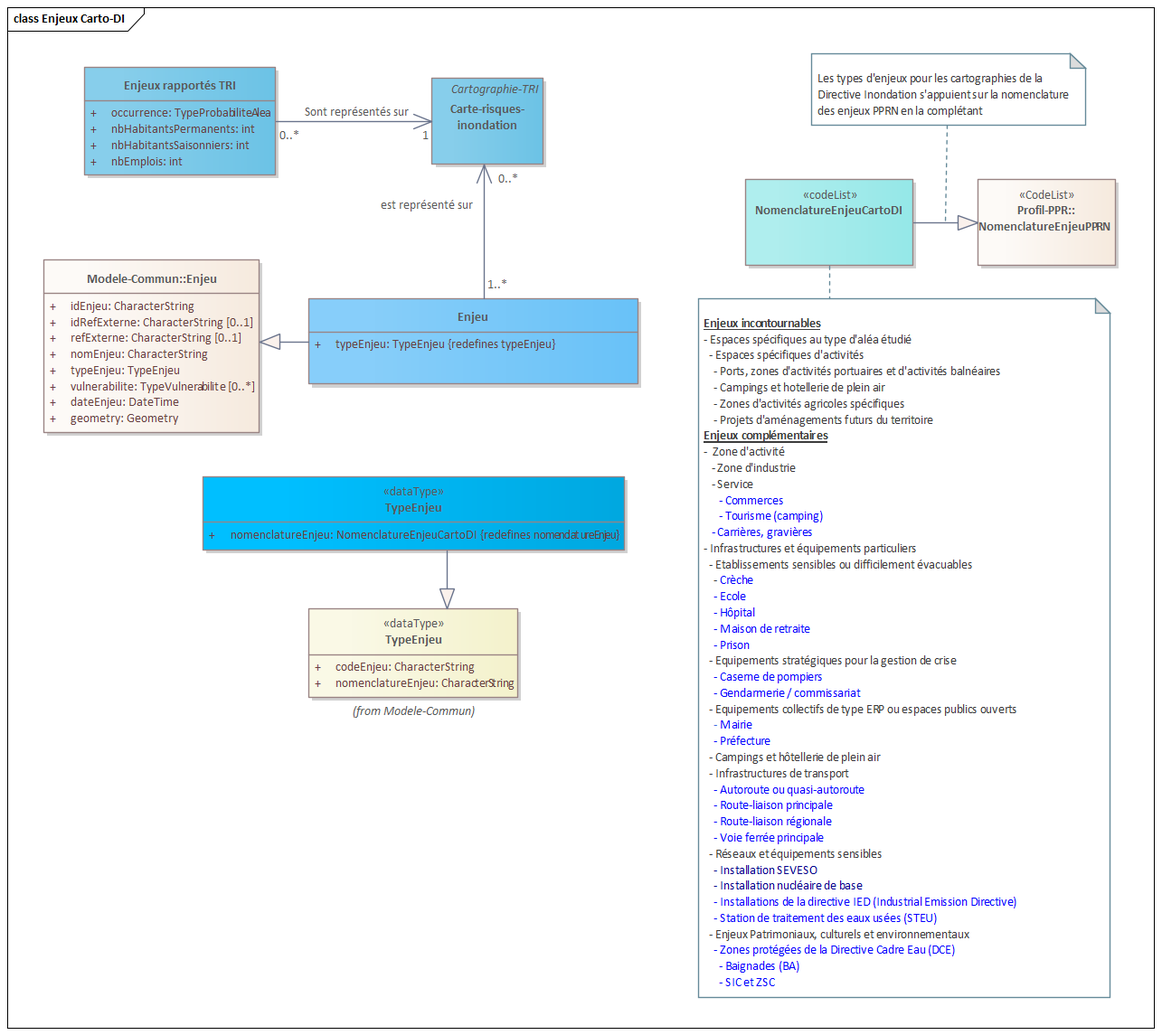
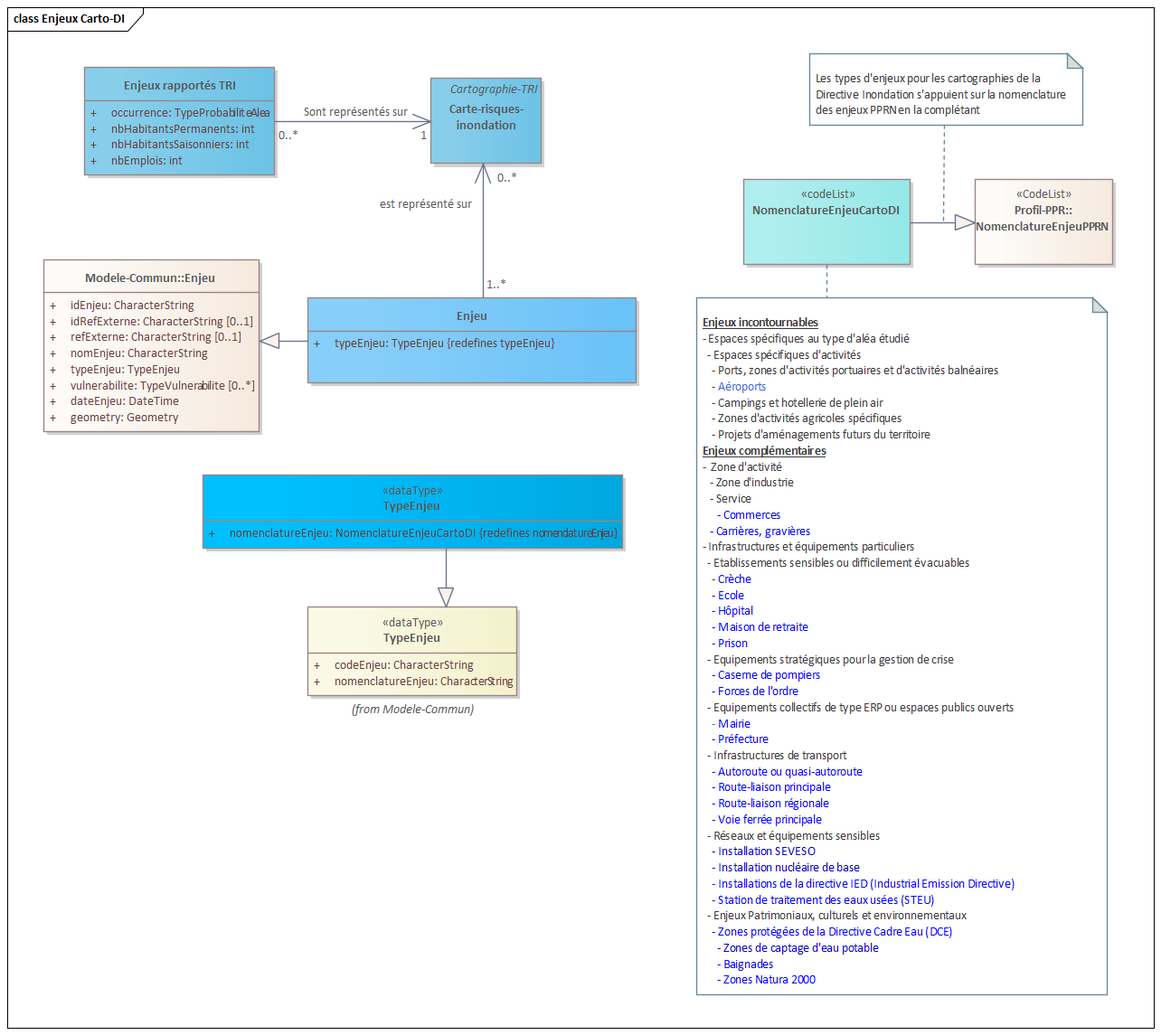
Documentation Enjeux carto DI

diff --git a/standard/Document.md b/standard/Document.md
@@ -946,74 +946,51 @@ Le type de données TypeEnjeu défini dans le modèle commun permet de qualifier
 
 ### Nomenclature Enjeux Carto DI
 
-La nomenclature des enjeux pour les cartographies de la directive inondation s'appuie de façon cohérente sur la nomenclatrue des enjeux des plans de préventions des risques naturels (PPRN) dont certaines catégories sont affinées pour le besoin de rapportage. Le tableau qui suit expose les catégories de la nomenclature des PPRN utilisées et, le cas échéant ajoutées pour les cartographies de la directive inondation.
+La nomenclature des enjeux pour les cartographies de la directive inondation s'appuie de façon cohérente sur la nomenclature des enjeux des plans de préventions des risques naturels (PPRN) dont certaines catégories sont affinées pour le besoin de rapportage. Le tableau qui suit expose les catégories de la nomenclature des PPRN utilisées et étendues (catégories en **gras**) pour les cartographies de la directive inondation. La colonne `Chemin` permet de positionner la catégorie dans la hiérarchie globale de la nomenclature.
 
 #### Catégories des Enjeux incontournables
 
-### Enjeux incontournables
+| Chemin | Libellé | Définition |
+| - | - | - |
+| /espaceSpecifique/activite/portuaireBalneaire | Ports, zones d’activités portuaires et d’activités balnéaires | Enjeu incontournable dans le cadre des PPRLs : les ports, zones d’activités portuaires et d’activités balnéaires. Cette catégorie issue de la nomenclature des enjeux PPRN permet de reprendre les enjeux "Activité économique" de type "Ports et aéroports" de l'ancien standard COVADIS DI, lorsqu'il s'agit de ports. |
+| **/espaceSpecifique/activite/aeroport** | Aéroport | Aéroports ou aérodromes. Cette catégorie permet de reprendre les enjeux "Activité économique" de type "Ports et aéroports" de l'ancien standard COVADIS DI, lorsqu'il s'agit d'aéroports ou d'aérodromes. |
+| /espaceSpecifique/activite/campings | Campings et hôtellerie de plein air | Enjeu incontournable dans le cadre des PPRLs : campings et hôtellerie de plein air. Cette catégorie issue de la nomenclature des enjeux PPRN permet de reprendre les enjeux "Activité économique" de type "Tourisme (camping)" de l'ancien standard COVADIS DI. |
+| /espaceSpecifique/activite/activiteAgricoles | Zones d'activités agricoles spécifiques | Activités agricoles identifiées comme enjeux incontournables. Par exemple dans le cadre des PPRLs : les élevages sur prés salés et les marais salants. Cette catégorie issue de la nomenclature des enjeux PPRN permet de reprendre les enjeux "Activité économique" de type "Agriculture" de l'ancien standard COVADIS DI. |
+| /projetCollectivite | Projets d'aménagement futurs du territoire | Enjeux incontournables - Les projets d’aménagement doivent être recensés et discutés avec les collectivités, afin de vérifier leur cohérence vis-à-vis de l’exposition possible aux risques. Cette catégorie issue de la nomenclature des enjeux PPRN permet de reprendre les enjeux "Activité économique" de type "Activités futures" de l'ancien standard COVADIS DI. |
 
-| Code | Chemin | Libellé | Libellé Parent | Définition |
-|-|-|-|-|-|
-| 010000 | /zoneUrba | Zones urbanisées | -  | La définition de ces zones se fait par référence à la [circulaire 96-32 du ministère de l'équipement](https://dtrf.cerema.fr/pdf/pj/Dtrf/0000/Dtrf-0000327/TO327.pdf) qui précise que le caractère urbanisé ou non d’un espace doit s’apprécier en fonction de la réalité physique constatée et non en fonction d’un zonage opéré par un plan local d’urbanisme, ce qui conduit à exclure les zones dites urbanisables. Elles correpondent aux "espaces urbanisés" mentionnés dans le [Guide PPRN:2016](https://www.actu-environnement.com/media/pdf/guide-pprn.pdf)|
-| 010100 | /zoneUrba/centreUrbain | Centres urbains | Zones urbanisées | Au sein des zones urbanisées, le centre urbain est une entité particulière qui peut donner lieu à un zonage et une réglementation spécifiques. La définition des centres urbains est faite par référence à la [Circulaire du 24 avril 1996 relative aux dispositions applicables au bâti et ouvrages existants en zones inondables](https://www.legifrance.gouv.fr/jorf/id/JORFTEXT000000546346) qui indique qu'ils se caractérisent par leur histoire, par une occupation du sol de fait importante, une continuité bâtie et la mixité des usages entre logements, commerces et services. |
-| 010200 | /zoneUrba/horsCentreUrbain | Zones urbanisées hors centres urbains | Zones urbanisées | Cette sous-catégorie de zones urbanisées permet d'identifier en tant que telles les zones urbanisées **en dehors des centres urbains** au sens de l'[article R562-11-6 du code de l'environnement](https://www.legifrance.gouv.fr/codes/article_lc/LEGIARTI000038733757) |
-| 020000 | /zonesNonUrba | Zones non urbanisées | - | Zones se définissant par opposition aux Zones urbanisés et correspondant aux **zones non urbanisées** évoquées dans l'[article R562-11-6 du code de l'environnement](https://www.legifrance.gouv.fr/codes/article_lc/LEGIARTI000038733757) | 
-| 030000 | /espaceSpecifique | Espaces spécifiques au type d’aléa étudié | - | Espaces naturels, agricoles, forestiers ou autres pouvant jouer un rôle dans la dynamique des phénomènes ou support d'activités spécifiques et particulièrement vulnérables aux aléas étudiés. Les catégories suivantes permettent d'en identifier certains |
-| 030100 | /espaceSpecifique/activite | Espaces spécifiques d'activités | Espaces spécifiques au type d’aléa étudié | Espace d'activités spécifiques particulièrement vulnérables aux aléas étudiés. Les catégories suivantes permettent d'en identifier certains |
-| **030101** | **/espaceSpecifique/activite/portuaireBalneaire** | Ports, zones d’activités portuaires et d’activités balnéaires | Espaces spécifiques d'activités | Enjeu incontournable dans le cadre des PPRLs : les ports, zones d’activités portuaires et d’activités balnéaires |
-| **030102** | **/espaceSpecifique/activite/campings** | Campings et hôtellerie de plein air | Espaces spécifiques d'activités | Enjeu incontournable dans le cadre des PPRLs : campings et hôtellerie de plein air |
-| **030103** | **/espaceSpecifique/activite/activiteAgricoles** | Zones d'activités agricoles spécifiques | Espaces spécifiques d'activités | Activités agricoles identifiées comme enjeux incontournables. Par exemple dans le cadre des PPRLs : les élevages sur prés salés et les marais salants |
-| 030200 | /espaceSpecifique/limitationAlea | Espaces participants à la limitation des aléas | Espaces spécifiques au type d’aléa étudié | Espaces naturels, agricoles ou forestiers pouvant jouer un rôle dans la dynamique des phénomènes. |
-| 030201 | /espaceSpecifique/limitationAlea/expansionCrues | Zones d’expansion des crues | Espaces participants à la limitation des aléas | Zones d’expansion des crues pour les inondations |
-| 030202 | /espaceSpecifique/limitationAlea/atterrisement | Zones d’atterrissement | Espaces participants à la limitation des aléas | Zones d'atterrissement pour les crues torrentielles. |
-| 030203 | /espaceSpecifique/limitationAlea/interfaceHabitatForet | Zones d’interfaces habitat-forêt | Espaces participants à la limitation des aléas | Zones d’interfaces habitat-forêt pour les incendies de forêt ou le maintien d’une forêt pour retenir un manteau neigeux ou des chutes de blocs. |
-| 030204 | /espaceSpecifique/limitationAlea/maintienForet | Zones de maintien d’une forêt | Espaces participants à la limitation des aléas | Zone de maintien d’une forêt pour retenir un manteau neigeux ou des chutes de blocs. |
-| 040000 | **/projetCollectivite** | **Projets d'aménagement futurs du territoire** | - | Enjeux incontournables - Les projets d’aménagement doivent être recensés et discutés avec les collectivités, afin de vérifier leur cohérence vis-à-vis de l’exposition possible aux risques. |
+### Catégories des Enjeux complémentaires
 
-### Enjeux complémentaires
-
-| Code | Chemin | Libellé | Libellé Parent | Définition |
-|-|-|-|-|-|
-| 050000 | /habitat | Zone d'habitat | -  | Zone de typologie de bâti homogène destinée à l'habitat |
-| 050100 | /habitat/individuel | Zone d'habitat individuel | Zone d'habitat | Zone de typologie de bâti homogène destinée à l'habitat individuel (pavillons) |
-| 050200 | /habitat/collectif | Zone d'habitat collectif |  Zone d'habitat | Zone de typologie de bâti homogène destinée à l'habitat collectif (immeubles d'habitations)  |
-| 060100 | /activite | Zone d'activité | - | Zone de typologie de bâti homogène destinée à l'activité professionnelle |
-| 060101 | **/activite/industrie** | **Zone d'industrie** | Zone d'activité | Zone de typologie de bâti homogène destinée à l'industrie |
-| 060102 | /activite/service | Service | Zone d'activité | Zone de typologie de bâti homogène destinée au service |
-| **(+)06010201** | **/activite/service/commerces** | Commerces | Service | Zone de typologie de bâti homogène destinée au Commerces |
-| **(+)06010202** | **/activite/service/tourisme** | Tourisme | Service | Zone de tourisme (campings ?) |
-| 060103 | /activite/artisanat | Artisanat | Zone d'activité | Zone de typologie de bâti homogène destinée à l'artisanat |
-| **(+)060104** | **/activite/carrières** | **Zone de carrières ou gravières** | Zone d'activité | Zone de carrières ou gravières |
-| 070000 | /equipementParticulier | Infrastructures et équipements particuliers | - | Eléments faisant l'objet d'une vulnérabilité propre et de prescription spécifique |
-| 070100 | /equipementParticulier/sensibleCrise | Etablissements sensibles ou difficilement évacuables | Infrastructures et équipements particuliers | Par exemple : crèches, écoles, hôpitaux, maisons de retraite, centres pénitentiaires. Cette catégorie peut être affinée à l'aide de la nomenclature COVADIS |
-| **(+)070101** | **/equipementParticulier/sensibleCrise/creche** | Crêche | Etablissements sensibles ou difficilement évacuables | Crêches |
-| **(+)070102** | **/equipementParticulier/sensibleCrise/ecole** | Ecole | Etablissements sensibles ou difficilement évacuables | Ecoles |
-| **(+)070103** | **/equipementParticulier/sensibleCrise/hopital** | Hopital | Etablissements sensibles ou difficilement évacuables | Hôpitaux |
-| **(+)070104** | **/equipementParticulier/sensibleCrise/ehpad** | Ehpad | Etablissements sensibles ou difficilement évacuables | Ehpad ou maisons séniors |
-| **(+)070105** | **/equipementParticulier/sensibleCrise/prison** | Prison | Etablissements sensibles ou difficilement évacuables | Prisons |
-| 070200 | /equipementParticulier/gestionCrise | Equipements stratégiques pour la gestion de crise | Infrastructures et équipements particuliers | Par exemple : PC de crises, centres de secours, ERP pouvant servir d'hébergement, centraux téléphoniques, centrales électriques, gendarmerie, police, services techniques...  Cette catégorie peut être affinée à l'aide de la nomenclature COVADIS |
-| **(+)070201** | /equipementParticulier/gestionCrise/pompiers | Caserne de pompiers | Equipements stratégiques pour la gestion de crise | Caserne de pompiers |
-| **(+)070202** | /equipementParticulier/gestionCrise/commissariatGendarmerie | Gendarmerie ou commissariat | Equipements stratégiques pour la gestion de crise | Gendarmerie ou commissariat |
-| 070300 | /equipementParticulier/collectifsPublicsOuverts | Equipements collectifs de type ERP ou espaces publics ouverts | Infrastructures et équipements particuliers | Equipements regroupant ponctuellement ou périodiquement en un point donné du territoire un nombre important de personnes. Cette catégorie peut être affinée à l'aide de la nomenclature COVADIS |
-| **(+)070301** | **/equipementParticulier/collectifsPublicsOuverts/marie** | Marie | Equipements collectifs de type ERP ou espaces publics ouverts | Maries |
-| **(+)070302** | **/equipementParticulier/collectifsPublicsOuverts/prefecture** | Préfecture | Equipements collectifs de type ERP ou espaces publics ouverts | Préfectures  |
-| **070400** | **/equipementParticulier/campings** | Campings et hôtellerie de plein air | Infrastructures et équipements particuliers | Campings et hôtellerie de plein air |
-| 070500 | /equipementParticulier/transports | Infrastructures de transport | Infrastructures et équipements particuliers | Infrastructures de transport pouvant assurer l'accès des secours ou l'évacuation des personnes. Cette catégorie peut être affinée à l'aide de la nomenclature COVADIS |
-| **(+)070501** | **/equipementParticulier/transports/autoroute** | Autoroute ou quasi autoroute | Infrastructures de transport | Autoroutes ou quasi autoroutes |
-| **(+)070502** | **/equipementParticulier/transports/routePrincipale** | Route liaison principale | Infrastructures de transport | Routes liaisons principales |
-| **(+)070503** | **/equipementParticulier/transports/routeRegionale** | Route liaison régionale | Infrastructures de transport | Routes liaisons régionales |
-| **(+)070504** | **/equipementParticulier/transports/voieFerreePrincipale** | Voie ferrée principale | Infrastructures de transport | Voies ferrées principales (dont LGV) |
-| 070600 | /equipementParticulier/reseauxSensibles | Réseaux et équipements sensibles | Infrastructures et équipements particuliers | Réseaux électriques et téléphoniques aériens, réseaux enterrés d’eau et de gaz, stations de traitement des eaux usées, installations d’alimentation en eau potable... |
-| **(+)070601** | **/equipementParticulier/reseauxSensibles/seveso** | Installation SEVESO | Infrastructures et équipements particuliers | Installation de type SEVESO |
-| **(+)070602** | **/equipementParticulier/reseauxSensibles/nucleaire** | Installation nucléaire de base | Infrastructures et équipements particuliers | Installations nucléaire de base |
-| **(+)070603** | **/equipementParticulier/reseauxSensibles/ied** | Installation de la directive IED | Infrastructures et équipements particuliers | Installations de la directive IED |
-| **(+)070604** | **/equipementParticulier/reseauxSensibles/steu** | Station de traitement des eaux usées | Infrastructures et équipements particuliers | Stations de traitement des eaux usées |
-| **080000** | **/patrimoineEnvironement** | Enjeux patrimoniaux, culturels et environnementaux | - | Par exemple des secteurs sauvegardés, des monuments historiques qui sont soumis à des réglementations particulières avec lesquelles il faudra veiller à définir des mesures cohérentes. |
-| **(+)080200** | **/patrimoineEnvironement/culturel** | Patrimoine culturel | Enjeux patrimoniaux, culturels et environnementaux | Eléments du patrimoine culturel. Typiquement : musées, bâtiments religieux, monuments, vestiges archéologiques, mégalithes, habitations troglodytiques, cimetières. |
-| **(+)080100** | **/patrimoineEnvironement/zpdce** | Zones protégées de la directive cadre eau | Enjeux patrimoniaux, culturels et environnementaux | Typiquement : Baignades (BA), oiseaux (BI) et habitat (HA). |
-| **(+)080101** | **/patrimoineEnvironement/zpdce/baignades** | Baignades |Zones protégées de la directive cadre eau | Baignades |
-| **(+)080102** | **/patrimoineEnvironement/zpdce/sic_zsc** | Sites d'importance communautaire (SIC) et zones spéciales de conservation (ZSC)  | Zones protégées de la directive cadre eau | Zones naturelles désignées par la Commission européenne dans le cadre du réseau Natura 2000. |
-
+| Chemin | Libellé | Définition |
+| - | - | - |
+| /activite/industrie | Zone d'industrie | Zone de typologie de bâti homogène destinée à l'industrie. Cette catégorie permet de reprendre les enjeux "Activité économique" de type "Industrie" de l'ancien standard COVADIS DI. |
+| **/activite/service/commerces** | Commerces | Zone de typologie de bâti homogène destinée au Commerce. Cette catégorie permet de reprendre les enjeux "Activité économique" de type "Commerce" de l'ancien standard COVADIS DI. |
+| **/activite/carrières** | **Zone de carrières ou gravières** | Zone de carrières ou gravières. Cette catégorie permet de reprendre les enjeux "Activité économique" de type "Carrières, gravières" de l'ancien standard COVADIS DI. |
+| /equipementParticulier/sensibleCrise | Infrastructures et équipements particuliers | Par exemple : crèches, écoles, hôpitaux, maisons de retraite, centres pénitentiaires. Cette catégorie reprise de la nomenclature des enjeux PPRN peut permettre de reprendre les enjeux "Gestion crise" de type "Autres enjeu sensible à la gestion de crise" de l'ancien standard COVADIS DI lorsqu'une catégorie plus fine n'est pas identifiée. |
+| **/equipementParticulier/sensibleCrise/creche** | Crêche | Crêches. Cette catégorie permet de reprendre les enjeux "Gestion crise" de type "Crêche" de l'ancien standard COVADIS DI. |
+| **/equipementParticulier/sensibleCrise/ecole** | Ecole | Ecoles. Cette catégorie permet de reprendre les enjeux "Gestion crise" de type "Ecole" de l'ancien standard COVADIS DI. |
+| **/equipementParticulier/sensibleCrise/hopital** | Hopital | Hôpitaux. Cette catégorie permet de reprendre les enjeux "Gestion crise" de type "Hôpital" de l'ancien standard COVADIS DI. |
+| **/equipementParticulier/sensibleCrise/ehpad** | Ehpad | Ehpad ou résidences séniors. Cette catégorie permet de reprendre les enjeux "Gestion crise" de type "Maison de retraite" de l'ancien standard COVADIS DI. |
+| **/equipementParticulier/sensibleCrise/prison** | Prison | Prisons. Cette catégorie permet de reprendre les enjeux "Gestion crise" de type "Prison" de l'ancien standard COVADIS DI. |
+| /equipementParticulier/gestionCrise | Equipements stratégiques pour la gestion de crise | Par exemple : PC de crises, centres de secours, ERP pouvant servir d'hébergement, centraux téléphoniques, centrales électriques, gendarmerie, police, services techniques... Cette catégorie de la nomenclature des enjeux PPRN peut être utilisée pour classer les enjeux "Gestion crise" de type "Autre enjeu utile à la gestin de crise" de l'ancien standard COVADIS DI. |
+| **/equipementParticulier/gestionCrise/pompiers** | Caserne de pompiers | Casernes de pompiers. Cette catégorie permet de reprendre les enjeux "Gestion crise" de type "Caserne de pompiers" de l'ancien standard COVADIS DI. |
+| **/equipementParticulier/gestionCrise/forceDeLOrdre** | Forces de l'ordre | Gendarmeries ou commissariats. Cette catégorie permet de reprendre les enjeux "Gestion crise" de type "Gendarmerie/commissariat" de l'ancien standard COVADIS DI. |
+| /equipementParticulier/collectifsPublicsOuverts | Equipements collectifs de type ERP ou espaces publics ouverts | Equipements regroupant ponctuellement ou périodiquement en un point donné du territoire un nombre important de personnes. |
+| **/equipementParticulier/collectifsPublicsOuverts/marie** | Mairie | Maries. Cette catégorie permet de reprendre les enjeux "Gestion crise" de type "Mairie" de l'ancien standard COVADIS DI. |
+| **/equipementParticulier/collectifsPublicsOuverts/prefecture** | Préfecture | Préfectures. Cette catégorie permet de reprendre les enjeux "Gestion crise" de type "Préfecture" de l'ancien standard COVADIS DI. |
+| **/equipementParticulier/transports/autoroute** | Autoroute ou quasi autoroute | Correspond aux infrastructures routières d'[importance 1](http://bdtopoexplorer.ign.fr/troncon_de_route#attribute_value_612) dans la BD Topo. Cette catégorie permet de reprendre les enjeux "Gestion crise" de type "Autoroute ou quasi autoroute" de l'ancien standard COVADIS DI. |
+| **/equipementParticulier/transports/routePrincipale** | Route liaison principale | Correspond aux infrastructures routières d'[importance 2](http://bdtopoexplorer.ign.fr/troncon_de_route#attribute_value_613) dans la BD Topo. Cette catégorie permet de reprendre les enjeux "Gestion crise" de type "Route-liaison principale" de l'ancien standard COVADIS DI. |
+| **/equipementParticulier/transports/routeRegionale** | Route liaison régionale | Routes permettant des liaisons régionales ou départementales. Correspond aux infrastructures routières d'[importance 3](http://bdtopoexplorer.ign.fr/troncon_de_route#attribute_value_614) dans la BD Topo. Cette catégorie permet de reprendre les enjeux "Gestion crise" de type "Route-liaison régionale" de l'ancien standard COVADIS DI. |
+| **/equipementParticulier/transports/voieFerreePrincipale** | Voie ferrée principale | Voies ferrées principales dont Lignes à grande vitesses. Cette catégorie permet de reprendre les enjeux "Gestion crise" de type "Voie ferrée principale" de l'ancien standard COVADIS DI. |
+| /equipementParticulier/reseauxSensibles | Réseaux et équipements sensibles | Réseaux électriques et téléphoniques aériens, réseaux enterrés d’eau et de gaz, stations de traitement des eaux usées, installations d’alimentation en eau potable... Cette catégorie de la nomenclature des enjeux PPRN peut être utilisée pour classer les enjeux "Gestion crise" de type "Autre enjeu sensible à la gestin de crise" de l'ancien standard COVADIS DI. |
+| **/equipementParticulier/reseauxSensibles/seveso** | Installation SEVESO | Installation de type SEVESO. Cette catégorie permet de reprendre les enjeux "Gestion crise" de type "SEVESO" de l'ancien standard COVADIS DI. |
+| **/equipementParticulier/reseauxSensibles/nucleaire** | Installation nucléaire de base | Installations nucléaire de base. Cette catégorie permet de reprendre les enjeux "Gestion crise" de type "Installation nucléaire de base" de l'ancien standard COVADIS DI. |
+| **/equipementParticulier/reseauxSensibles/ied** | Installation de la directive IED | Installations classées pour la protection de l'environnement (ICPE) polluante entrant dans le cadre de la directive 2010/75/UE IED (Industrial Emission Directive). Cette catégorie permet de reprendre les enjeux "IPPC" et "IED" de l'ancien standard COVADIS DI. |
+| **/equipementParticulier/reseauxSensibles/steu** | Station de traitement des eaux usées | Stations de traitement des eaux usées telles que définies comme ouvrage de dépollution dans le [SIE](https://www.sandre.eaufrance.fr/v2/) du Sandre. Cette catégorie permet de reprendre les enjeux "STEU" de l'ancien standard COVADIS DI. |
+| **/patrimoineEnvironement/culturel** | Patrimoine culturel | Eléments du patrimoine culturel. Typiquement : musées, bâtiments religieux, monuments, vestiges archéologiques, mégalithes, habitations troglodytiques, cimetières. Cette catégorie permet de reprendre les enjeux "patrimoine" de l'ancien Standard COVADIS DI. |
+| **/patrimoineEnvironement/zpdce** | Zones protégées de la directive cadre eau | Cette catégorie permet de reprendre les enjeux "zone protégée DCE" de l'ancien standard COVADIS DI. Les sous catégories suivantes permettent de distinguer : les zones de captage d'eau potable, les zones de baignades et les zones de protection du réseau Natura 2000. |
+| **/patrimoineEnvironement/zpdce/eaupotable** | Zone de captage d'eau potable | Zones désignées pour le captage d'eau destinée à la consommation humaine en application de l'article 7 de la DCE. |
+| **/patrimoineEnvironement/zpdce/baignades** | Baignades | Zones de masses d'eau désignées en tant qu'eaux de plaisance, y compris les zones désignées en tant qu'eaux de baignade dans le cadre de la directive 2006/7/CE; |
+| **/patrimoineEnvironement/zpdce/natura2000** | Zones Natura 2000 | Zones naturelles désignées par la Commission européenne et transposées au niveau national dans le cadre du réseau Natura 2000. Sites d'importance communautaire (SIC) et zones spéciales de conservation (ZSC). |
 
 ### Autre enjeu
 
@@ -1555,6 +1532,80 @@ Métadonnées concernant les métadonnées
 
 
 
+# Annexe B Nomenclature augmentée des enjeux
+
+TBD : à basculer dans le modèle commun ?
+
+#### Catégories des Enjeux incontournables
+
+| Code | Chemin | Libellé | Libellé Parent | Définition |
+|-|-|-|-|-|
+| 010000 | /zoneUrba | Zones urbanisées | -  | La définition de ces zones se fait par référence à la [circulaire 96-32 du ministère de l'équipement](https://dtrf.cerema.fr/pdf/pj/Dtrf/0000/Dtrf-0000327/TO327.pdf) qui précise que le caractère urbanisé ou non d’un espace doit s’apprécier en fonction de la réalité physique constatée et non en fonction d’un zonage opéré par un plan local d’urbanisme, ce qui conduit à exclure les zones dites urbanisables. Elles correpondent aux "espaces urbanisés" mentionnés dans le [Guide PPRN:2016](https://www.actu-environnement.com/media/pdf/guide-pprn.pdf)|
+| 010100 | /zoneUrba/centreUrbain | Centres urbains | Zones urbanisées | Au sein des zones urbanisées, le centre urbain est une entité particulière qui peut donner lieu à un zonage et une réglementation spécifiques. La définition des centres urbains est faite par référence à la [Circulaire du 24 avril 1996 relative aux dispositions applicables au bâti et ouvrages existants en zones inondables](https://www.legifrance.gouv.fr/jorf/id/JORFTEXT000000546346) qui indique qu'ils se caractérisent par leur histoire, par une occupation du sol de fait importante, une continuité bâtie et la mixité des usages entre logements, commerces et services. |
+| 010200 | /zoneUrba/horsCentreUrbain | Zones urbanisées hors centres urbains | Zones urbanisées | Cette sous-catégorie de zones urbanisées permet d'identifier en tant que telles les zones urbanisées **en dehors des centres urbains** au sens de l'[article R562-11-6 du code de l'environnement](https://www.legifrance.gouv.fr/codes/article_lc/LEGIARTI000038733757) |
+| 020000 | /zonesNonUrba | Zones non urbanisées | - | Zones se définissant par opposition aux Zones urbanisés et correspondant aux **zones non urbanisées** évoquées dans l'[article R562-11-6 du code de l'environnement](https://www.legifrance.gouv.fr/codes/article_lc/LEGIARTI000038733757) | 
+| 030000 | /espaceSpecifique | Espaces spécifiques au type d’aléa étudié | - | Espaces naturels, agricoles, forestiers ou autres pouvant jouer un rôle dans la dynamique des phénomènes ou support d'activités spécifiques et particulièrement vulnérables aux aléas étudiés. Les catégories suivantes permettent d'en identifier certains |
+| 030100 | /espaceSpecifique/activite | Espaces spécifiques d'activités | Espaces spécifiques au type d’aléa étudié | Espace d'activités spécifiques particulièrement vulnérables aux aléas étudiés. Les catégories suivantes permettent d'en identifier certains |
+| **030101** | **/espaceSpecifique/activite/portuaireBalneaire** | Ports, zones d’activités portuaires et d’activités balnéaires | Espaces spécifiques d'activités | Enjeu incontournable dans le cadre des PPRLs : les ports, zones d’activités portuaires et d’activités balnéaires |
+| **030102** | **/espaceSpecifique/activite/campings** | Campings et hôtellerie de plein air | Espaces spécifiques d'activités | Enjeu incontournable dans le cadre des PPRLs : campings et hôtellerie de plein air |
+| **030103** | **/espaceSpecifique/activite/activiteAgricoles** | Zones d'activités agricoles spécifiques | Espaces spécifiques d'activités | Activités agricoles identifiées comme enjeux incontournables. Par exemple dans le cadre des PPRLs : les élevages sur prés salés et les marais salants |
+| 030200 | /espaceSpecifique/limitationAlea | Espaces participants à la limitation des aléas | Espaces spécifiques au type d’aléa étudié | Espaces naturels, agricoles ou forestiers pouvant jouer un rôle dans la dynamique des phénomènes. |
+| 030201 | /espaceSpecifique/limitationAlea/expansionCrues | Zones d’expansion des crues | Espaces participants à la limitation des aléas | Zones d’expansion des crues pour les inondations |
+| 030202 | /espaceSpecifique/limitationAlea/atterrisement | Zones d’atterrissement | Espaces participants à la limitation des aléas | Zones d'atterrissement pour les crues torrentielles. |
+| 030203 | /espaceSpecifique/limitationAlea/interfaceHabitatForet | Zones d’interfaces habitat-forêt | Espaces participants à la limitation des aléas | Zones d’interfaces habitat-forêt pour les incendies de forêt ou le maintien d’une forêt pour retenir un manteau neigeux ou des chutes de blocs. |
+| 030204 | /espaceSpecifique/limitationAlea/maintienForet | Zones de maintien d’une forêt | Espaces participants à la limitation des aléas | Zone de maintien d’une forêt pour retenir un manteau neigeux ou des chutes de blocs. |
+| 040000 | **/projetCollectivite** | **Projets d'aménagement futurs du territoire** | - | Enjeux incontournables - Les projets d’aménagement doivent être recensés et discutés avec les collectivités, afin de vérifier leur cohérence vis-à-vis de l’exposition possible aux risques. |
+
+### Catégories des Enjeux complémentaires
+
+| Code | Chemin | Libellé | Libellé Parent | Définition |
+|-|-|-|-|-|
+| 050000 | /habitat | Zone d'habitat | -  | Zone de typologie de bâti homogène destinée à l'habitat |
+| 050100 | /habitat/individuel | Zone d'habitat individuel | Zone d'habitat | Zone de typologie de bâti homogène destinée à l'habitat individuel (pavillons) |
+| 050200 | /habitat/collectif | Zone d'habitat collectif |  Zone d'habitat | Zone de typologie de bâti homogène destinée à l'habitat collectif (immeubles d'habitations)  |
+| 060100 | /activite | Zone d'activité | - | Zone de typologie de bâti homogène destinée à l'activité professionnelle |
+| 060101 | **/activite/industrie** | **Zone d'industrie** | Zone d'activité | Zone de typologie de bâti homogène destinée à l'industrie |
+| 060102 | /activite/service | Service | Zone d'activité | Zone de typologie de bâti homogène destinée au service |
+| **(+)06010201** | **/activite/service/commerces** | Commerces | Service | Zone de typologie de bâti homogène destinée au Commerces |
+| **(+)06010202** | **/activite/service/tourisme** | Tourisme | Service | Zone de tourisme (campings ?) |
+| 060103 | /activite/artisanat | Artisanat | Zone d'activité | Zone de typologie de bâti homogène destinée à l'artisanat |
+| **(+)060104** | **/activite/carrières** | **Zone de carrières ou gravières** | Zone d'activité | Zone de carrières ou gravières |
+| 070000 | /equipementParticulier | Infrastructures et équipements particuliers | - | Eléments faisant l'objet d'une vulnérabilité propre et de prescription spécifique |
+| 070100 | /equipementParticulier/sensibleCrise | Etablissements sensibles ou difficilement évacuables | Infrastructures et équipements particuliers | Par exemple : crèches, écoles, hôpitaux, maisons de retraite, centres pénitentiaires. Cette catégorie peut être affinée à l'aide de la nomenclature COVADIS |
+| **(+)070101** | **/equipementParticulier/sensibleCrise/creche** | Crêche | Etablissements sensibles ou difficilement évacuables | Crêches |
+| **(+)070102** | **/equipementParticulier/sensibleCrise/ecole** | Ecole | Etablissements sensibles ou difficilement évacuables | Ecoles |
+| **(+)070103** | **/equipementParticulier/sensibleCrise/hopital** | Hopital | Etablissements sensibles ou difficilement évacuables | Hôpitaux |
+| **(+)070104** | **/equipementParticulier/sensibleCrise/ehpad** | Ehpad | Etablissements sensibles ou difficilement évacuables | Ehpad ou maisons séniors |
+| **(+)070105** | **/equipementParticulier/sensibleCrise/prison** | Prison | Etablissements sensibles ou difficilement évacuables | Prisons |
+| 070200 | /equipementParticulier/gestionCrise | Equipements stratégiques pour la gestion de crise | Infrastructures et équipements particuliers | Par exemple : PC de crises, centres de secours, ERP pouvant servir d'hébergement, centraux téléphoniques, centrales électriques, gendarmerie, police, services techniques...  Cette catégorie peut être affinée à l'aide de la nomenclature COVADIS |
+| **(+)070201** | /equipementParticulier/gestionCrise/pompiers | Caserne de pompiers | Equipements stratégiques pour la gestion de crise | Caserne de pompiers |
+| **(+)070202** | /equipementParticulier/gestionCrise/commissariatGendarmerie | Gendarmerie ou commissariat | Equipements stratégiques pour la gestion de crise | Gendarmerie ou commissariat |
+| 070300 | /equipementParticulier/collectifsPublicsOuverts | Equipements collectifs de type ERP ou espaces publics ouverts | Infrastructures et équipements particuliers | Equipements regroupant ponctuellement ou périodiquement en un point donné du territoire un nombre important de personnes. Cette catégorie peut être affinée à l'aide de la nomenclature COVADIS |
+| **(+)070301** | **/equipementParticulier/collectifsPublicsOuverts/marie** | Marie | Equipements collectifs de type ERP ou espaces publics ouverts | Maries |
+| **(+)070302** | **/equipementParticulier/collectifsPublicsOuverts/prefecture** | Préfecture | Equipements collectifs de type ERP ou espaces publics ouverts | Préfectures  |
+| **070400** | **/equipementParticulier/campings** | Campings et hôtellerie de plein air | Infrastructures et équipements particuliers | Campings et hôtellerie de plein air |
+| 070500 | /equipementParticulier/transports | Infrastructures de transport | Infrastructures et équipements particuliers | Infrastructures de transport pouvant assurer l'accès des secours ou l'évacuation des personnes. Cette catégorie peut être affinée à l'aide de la nomenclature COVADIS |
+| **(+)070501** | **/equipementParticulier/transports/autoroute** | Autoroute ou quasi autoroute | Infrastructures de transport | Autoroutes ou quasi autoroutes |
+| **(+)070502** | **/equipementParticulier/transports/routePrincipale** | Route liaison principale | Infrastructures de transport | Routes liaisons principales |
+| **(+)070503** | **/equipementParticulier/transports/routeRegionale** | Route liaison régionale | Infrastructures de transport | Routes liaisons régionales |
+| **(+)070504** | **/equipementParticulier/transports/voieFerreePrincipale** | Voie ferrée principale | Infrastructures de transport | Voies ferrées principales (dont LGV) |
+| 070600 | /equipementParticulier/reseauxSensibles | Réseaux et équipements sensibles | Infrastructures et équipements particuliers | Réseaux électriques et téléphoniques aériens, réseaux enterrés d’eau et de gaz, stations de traitement des eaux usées, installations d’alimentation en eau potable... |
+| **(+)070601** | **/equipementParticulier/reseauxSensibles/seveso** | Installation SEVESO | Infrastructures et équipements particuliers | Installation de type SEVESO |
+| **(+)070602** | **/equipementParticulier/reseauxSensibles/nucleaire** | Installation nucléaire de base | Infrastructures et équipements particuliers | Installations nucléaire de base |
+| **(+)070603** | **/equipementParticulier/reseauxSensibles/ied** | Installation de la directive IED | Infrastructures et équipements particuliers | Installations de la directive IED |
+| **(+)070604** | **/equipementParticulier/reseauxSensibles/steu** | Station de traitement des eaux usées | Infrastructures et équipements particuliers | Stations de traitement des eaux usées |
+| **080000** | **/patrimoineEnvironement** | Enjeux patrimoniaux, culturels et environnementaux | - | Par exemple des secteurs sauvegardés, des monuments historiques qui sont soumis à des réglementations particulières avec lesquelles il faudra veiller à définir des mesures cohérentes. |
+| **(+)080200** | **/patrimoineEnvironement/culturel** | Patrimoine culturel | Enjeux patrimoniaux, culturels et environnementaux | Eléments du patrimoine culturel. Typiquement : musées, bâtiments religieux, monuments, vestiges archéologiques, mégalithes, habitations troglodytiques, cimetières. |
+| **(+)080100** | **/patrimoineEnvironement/zpdce** | Zones protégées de la directive cadre eau | Enjeux patrimoniaux, culturels et environnementaux | Typiquement : Baignades (BA), oiseaux (BI) et habitat (HA). |
+| **(+)080101** | **/patrimoineEnvironement/zpdce/baignades** | Baignades |Zones protégées de la directive cadre eau | Baignades |
+| **(+)080102** | **/patrimoineEnvironement/zpdce/sic_zsc** | Sites d'importance communautaire (SIC) et zones spéciales de conservation (ZSC)  | Zones protégées de la directive cadre eau | Zones naturelles désignées par la Commission européenne dans le cadre du réseau Natura 2000. |
+
+
+### Autre enjeu
+
+| Code | Chemin | Libellé | Libellé Parent | Définition | 
+|-|-|-|-|-|
+| 999999 | /autre | Autre | - | Autre enjeu non catégorisé |
 
 
 
